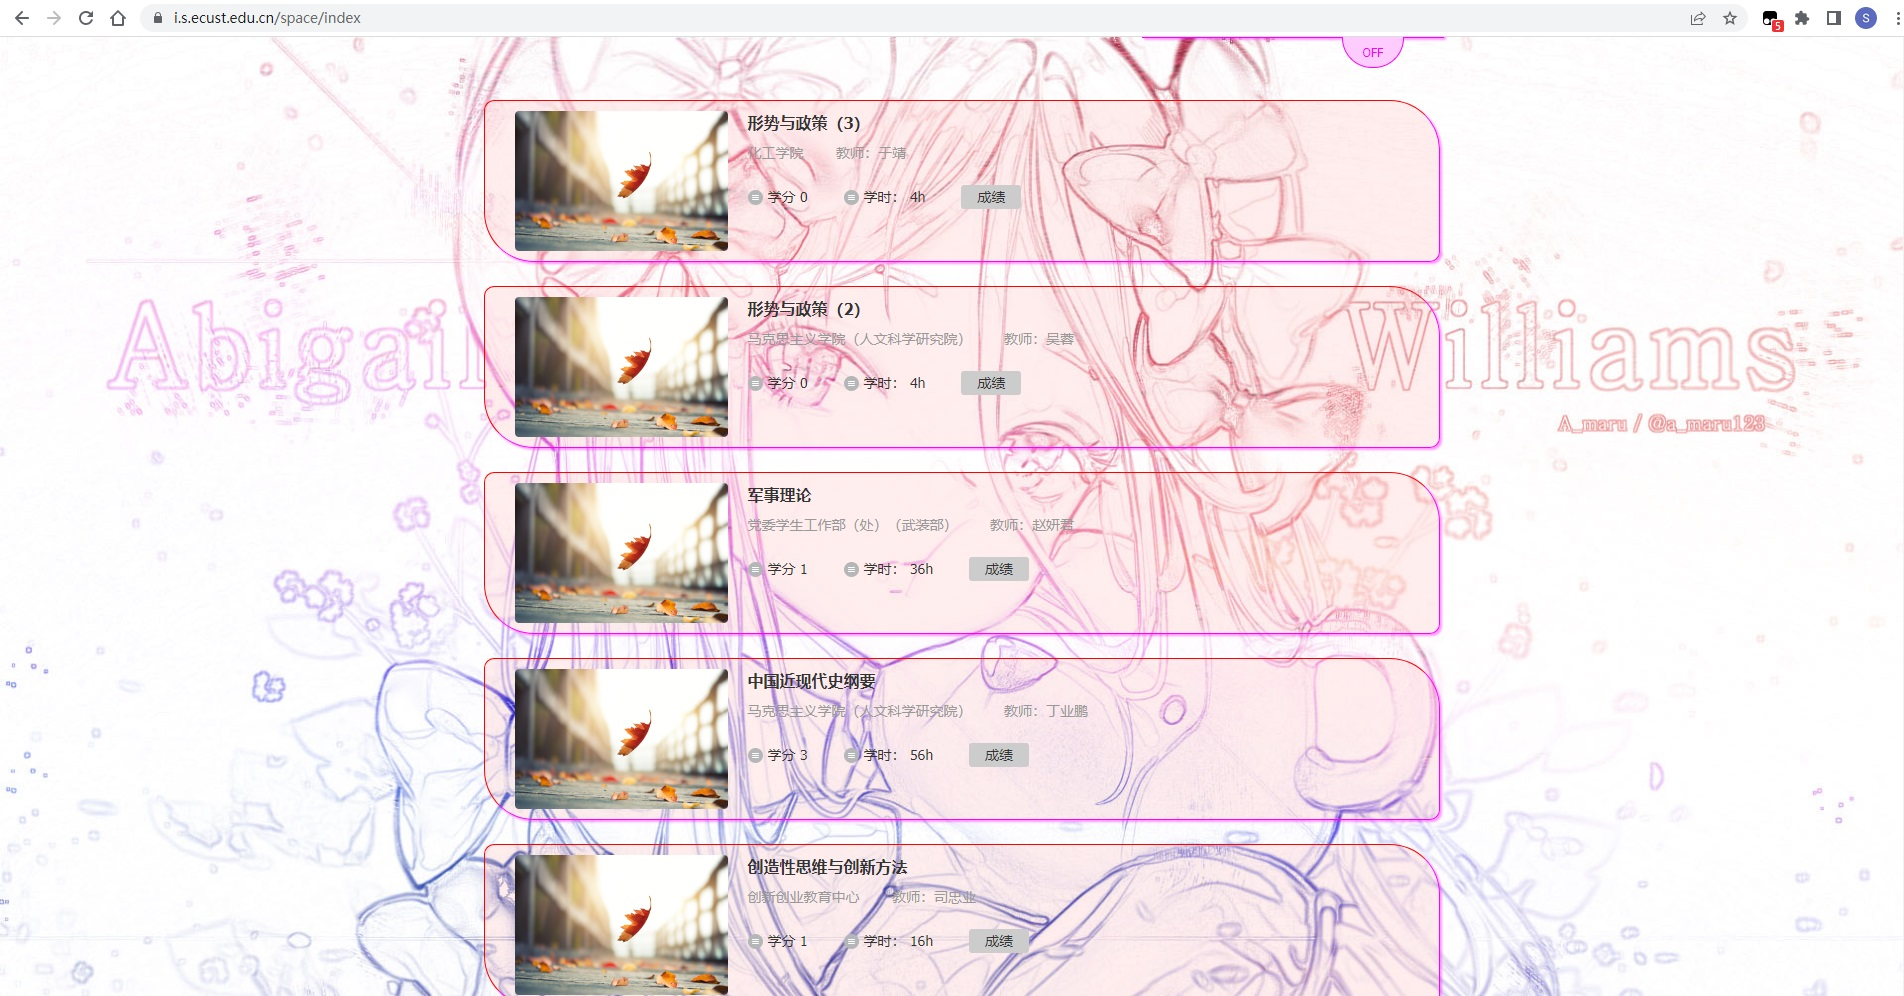
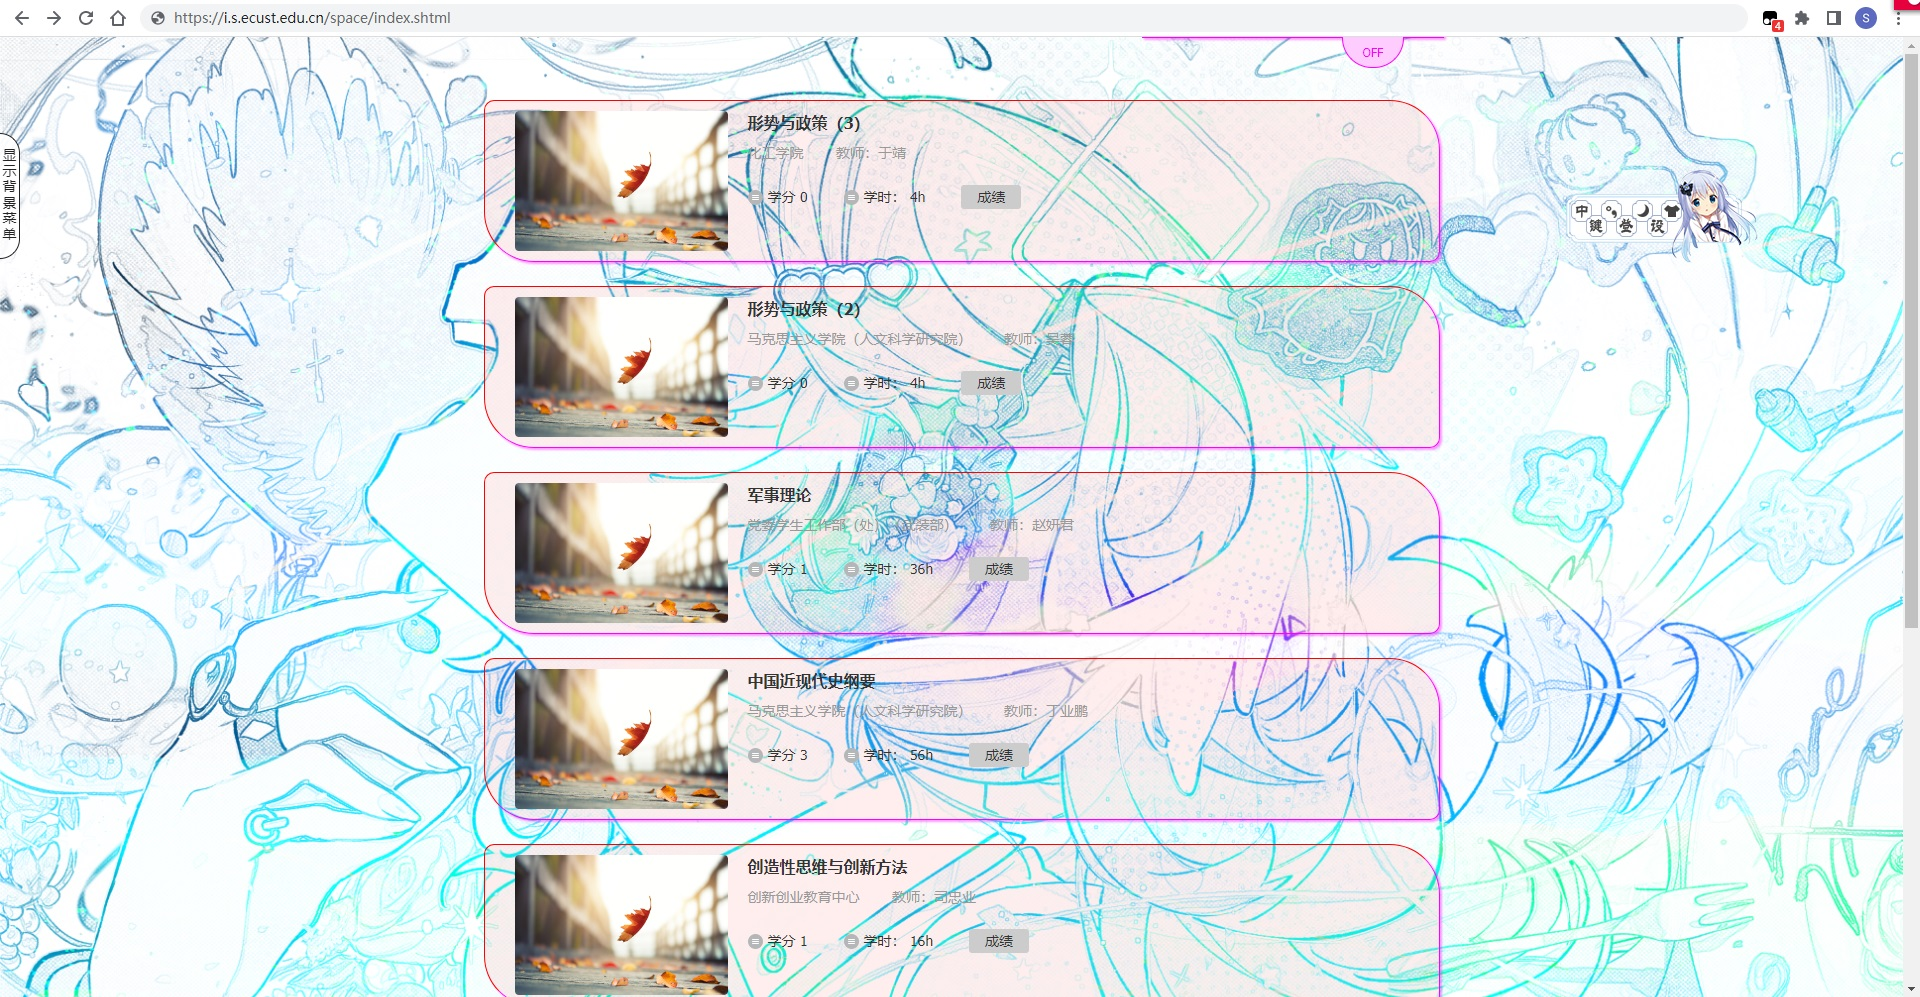
v0.2

diff --git a/ecust/embellish.js b/ecust/embellish.js
@@ -109,7 +109,7 @@
     var side = creatdiv("side");
     //容器开关
     var side_s = creatdiv("side_s");
-    side_s.innerHTML = "隐藏背景菜单";
+    side_s.innerHTML = "显示背景菜单";
     side_s.onclick = function () {
         if (side_s.innerHTML == "显示背景菜单") {
             side_s.innerHTML = "隐藏背景菜单";
@@ -119,6 +119,7 @@
             side.style.left = '-200px';
         }
     };
+    side.style.left = '-200px';
     //容器主体
     var side_c = creatdiv("side_c");
     //选择新背景
